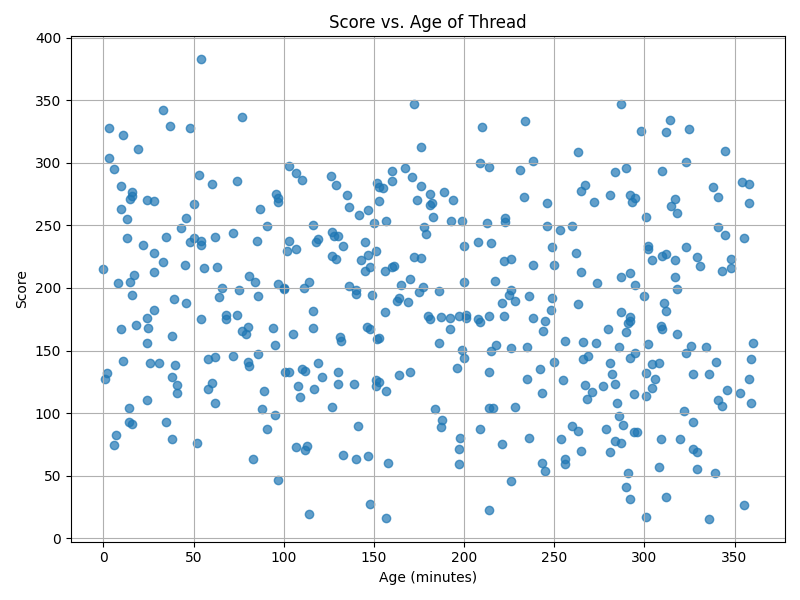
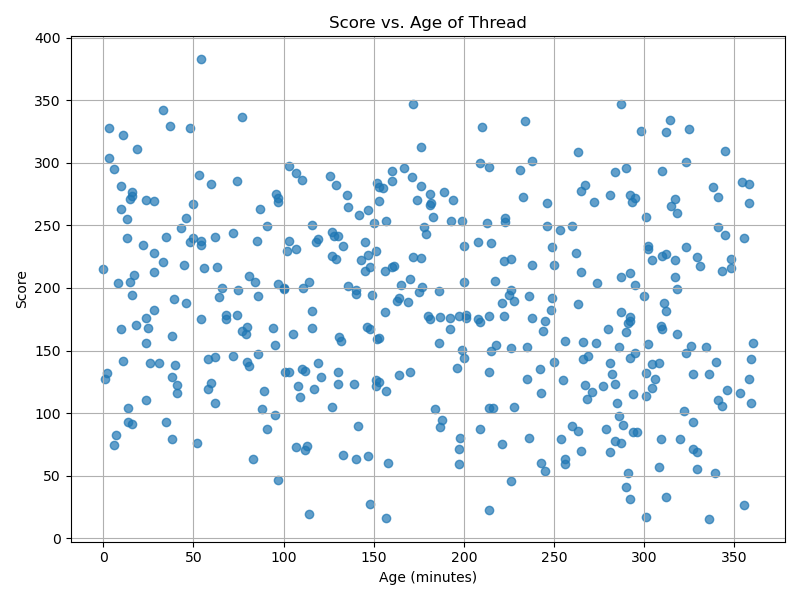
modularize, create data pipeline

diff --git a/main.py b/main.py
@@ -1,0 +1,86 @@
+import pandas as pd
+import numpy as np
+import random
+
+# Import functions from your other modules
+from generate_threads import generate_synthetic_thread_data
+from score_threads import score_threads_data
+from sort_threads import get_top_threads
+from multi_user import assign_users_to_threads
+from plot_threads import generate_and_save_plots
+from plot_threads import generate_and_save_plots
+from multi_user_analysis import calculate_average_score_per_user, plot_user_performance_distribution # <--- UPDATED IMPORT
+
+
+def run_full_pipeline():
+    print("--- Starting Thread Scorer Pipeline ---")
+
+    # 1. Generate the synthetic data
+    print("\n1. Generating synthetic thread data...")
+    # generate_synthetic_thread_data already contains its own seeding.
+    df_threads = generate_synthetic_thread_data(num_threads_min=100, num_threads_max=500)
+    print(f"Generated DataFrame with {len(df_threads)} threads.")
+
+    csv_path_raw_threads = "threads.csv"
+    df_threads.to_csv(csv_path_raw_threads, index=False)
+
+    # 2. Calculate engagement score
+    print("\n2. Calculating engagement scores...")
+    df_scored = score_threads_data(df_threads)
+    print("Engagement scores calculated.")
+
+    # (Optional) Save the full scored DataFrame to CSV if needed by external processes
+    csv_path_scored = "threads_scored.csv"
+    df_scored.to_csv(csv_path_scored, index=False)
+    print(f"Full scored data saved to {csv_path_scored}")
+
+    # 3. Assign users to threads
+    print("\n3. Assigning users to threads...")
+    # This step uses the df_scored data, as it's the full dataset
+    df_with_users = assign_users_to_threads(df_scored, num_unique_users=100)
+    print(f"User IDs assigned to {len(df_with_users)} threads. Head of DataFrame with users:")
+    print(df_with_users.head())
+
+    # (Optional) Save this DataFrame with users to a new CSV as well
+    csv_path_with_users = "threads_with_users.csv"
+    df_with_users.to_csv(csv_path_with_users, index=False)
+    print(f"Data with user assignments saved to {csv_path_with_users}")
+
+    # 4. Get top 10 threads
+    print("\n4. Getting top 10 threads...")
+    df_top_10 = get_top_threads(df_scored, top_n=10)
+    print("Top 10 threads extracted.")
+
+    # (Optional) Save the top 10 threads to CSV if needed by external processes
+    csv_path_top_threads = "top_threads.csv"
+    df_top_10.to_csv(csv_path_top_threads, index=False)
+    print(f"Top 10 threads saved to {csv_path_top_threads}")
+
+    # 5. Calculate Average Post Score for Each User
+    print("\n5. Calculating average post score per user...")
+    df_user_avg_scores = calculate_average_score_per_user(input_csv_path=csv_path_with_users)
+    if not df_user_avg_scores.empty:
+        print("Average post score per user calculated. Head:")
+        print(df_user_avg_scores.head())
+        print(f"Total unique users with scores: {len(df_user_avg_scores)}")
+
+        # Save the user average scores to a CSV
+        output_csv_path_avg_scores = "user_average_scores.csv"
+        df_user_avg_scores.to_csv(output_csv_path_avg_scores, index=False)
+        print(f"User average scores saved to {output_csv_path_avg_scores}")
+
+        # Plot user performance distribution
+        print("\nPlotting user performance distribution...")
+        plot_user_performance_distribution(df_user_avg_scores)
+    else:
+        print("Could not calculate user average scores or plot distribution.")
+
+    # 6. Generate and save plots
+    # This function expects the full scored DataFrame and the top 10 DataFrame
+    generate_and_save_plots(df_scored, df_top_10)
+    
+
+    print("\n--- Thread Scorer Pipeline Completed ---")
+
+if __name__ == "__main__":
+    run_full_pipeline()

diff --git a/plot_threads.py b/plot_threads.py
@@ -1,29 +1,33 @@
 import pandas as pd
 import matplotlib.pyplot as plt
 
-# Load full scored dataset
-df = pd.read_csv("threads_scored.csv")
+def generate_and_save_plots(df_full_scored: pd.DataFrame, df_top_10: pd.DataFrame):
 
-# Load top 10 threads dataset
-df_top10 = pd.read_csv("top_threads.csv")
+    # --- Plot 1: Score vs. Age of Thread ---
+    plt.figure(figsize=(8, 6))
+    plt.scatter(df_full_scored['age_minutes'], df_full_scored['score'], alpha=0.7)
+    plt.xlabel('Age (minutes)')
+    plt.ylabel('Score')
+    plt.title('Score vs. Age of Thread')
+    plt.grid(True)
+    plt.tight_layout()
+    plt.savefig("images/score_vs_age.png")
+    plt.close() # Close the figure to free up memory
 
-# --- Plot 1: Score vs. Age of Thread ---
-plt.figure(figsize=(8, 6))
-plt.scatter(df['age_minutes'], df['score'], alpha=0.7)
-plt.xlabel('Age (minutes)')
-plt.ylabel('Score')
-plt.title('Score vs. Age of Thread')
-plt.grid(True)
-plt.tight_layout()
-plt.savefig("images/score_vs_age.png")
+    # --- Plot 2: Distribution of engagement types across top 10 threads ---
+    engagement_top10 = df_top_10[['thread_id', 'likes', 'replies', 'reposts']].set_index('thread_id')
 
-# --- Plot 2: Distribution of engagement types across top 10 threads ---
-engagement_top10 = df_top10[['thread_id', 'likes', 'replies', 'reposts']].set_index('thread_id')
+    engagement_top10.plot(kind='bar', figsize=(10, 6))
+    plt.xlabel('Thread ID')
+    plt.ylabel('Count')
+    plt.title('Distribution of Engagement Types Across Top 10 Threads')
+    plt.xticks(rotation=45)
+    plt.tight_layout()
+    plt.savefig("images/top10_engagements.png")
+    plt.close() # Close the figure
 
-engagement_top10.plot(kind='bar', figsize=(10, 6))
-plt.xlabel('Thread ID')
-plt.ylabel('Count')
-plt.title('Distribution of Engagement Types Across Top 10 Threads')
-plt.xticks(rotation=45)
-plt.tight_layout()
-plt.savefig("images/top10_engagements.png")
+if __name__ == "__main__":    
+    df = pd.read_csv("threads_scored.csv") # Load full scored dataset
+    df_top10 = pd.read_csv("top_threads.csv") # Load top 10 threads dataset
+    generate_and_save_plots(df, df_top10)
+

diff --git a/multi_user_analysis.py b/multi_user_analysis.py
@@ -1,0 +1,46 @@
+import uuid
+import pandas as pd
+import numpy as np
+import matplotlib.pyplot as plt
+
+def calculate_average_score_per_user(input_csv_path: str = "threads_with_users.csv") -> pd.DataFrame:
+    #calculate average score for each user
+    df = pd.read_csv(input_csv_path)
+    average_scores_df = df.groupby('user_id')['score'].mean().reset_index()
+
+    return average_scores_df
+
+
+
+def plot_user_performance_distribution(df_user_scores: pd.DataFrame):
+
+
+    #generate plot for each user
+    plt.figure(figsize=(10, 6))
+    plt.hist(df_user_scores['score'], bins=20, edgecolor='black', alpha=0.7)
+    plt.xlabel('Average Post Score')
+    plt.ylabel('Number of Users')
+    plt.title('Distribution of Average Post Scores Per User')
+    plt.grid(axis='y', alpha=0.75)
+    plt.tight_layout()
+
+    plot_path = "images/user_score_distribution.png"
+    plt.savefig(plot_path)
+    plt.close() # Close the figure to free up memory
+
+
+if __name__ == "__main__":
+    print("Running analyze_users.py directly.")
+    avg_scores = calculate_average_score_per_user()
+    if not avg_scores.empty:
+        print("\nAverage scores per user (direct run):")
+        print(avg_scores.head())
+        print(f"Total unique users found: {len(avg_scores)}")
+
+        output_csv_path = "user_average_scores.csv"
+        avg_scores.to_csv(output_csv_path, index=False)
+        print(f"Average scores saved to {output_csv_path}")
+
+        # Plot the distribution when run directly
+        plot_user_performance_distribution(avg_scores)
+        print("User performance distribution plot generated (direct run).")

diff --git a/generate_threads.py b/generate_threads.py
@@ -4,24 +4,32 @@ import random
 
 # Set random seed for reproducibility
 SEED = 42
-np.random.seed(SEED)
-random.seed(SEED)
 
+
+def generate_synthetic_thread_data(num_threads_min=100, num_threads_max=500):
 # Choose a random number of threads between 100 and 500
-num_threads = random.randint(100, 500)
+    np.random.seed(SEED)
+    random.seed(SEED)
 
-# Generate synthetic data
-data = {
-    'thread_id': list(range(1, num_threads + 1)),
-    'likes': np.random.randint(0, 101, num_threads),
-    'replies': np.random.randint(0, 51, num_threads),
-    'reposts': np.random.randint(0, 31, num_threads),
-    'age_minutes': np.random.randint(0, 361, num_threads)
-}
+    num_threads = random.randint(num_threads_min, num_threads_max)
+    
 
-# Create a DataFrame
-df_threads = pd.DataFrame(data)
+
+    # Generate synthetic data
+    data = {
+        'thread_id': list(range(1, num_threads + 1)),
+        'likes': np.random.randint(0, 101, num_threads),
+        'replies': np.random.randint(0, 51, num_threads),
+        'reposts': np.random.randint(0, 31, num_threads),
+        'age_minutes': np.random.randint(0, 361, num_threads)
+    }
+
+    # Create a DataFrame
+    df_threads = pd.DataFrame(data)
+    return df_threads
 
 # Save to CSV
-csv_path = "threads.csv"
-df_threads.to_csv(csv_path, index=False)
+if __name__ == "__main__":
+    df_generated = generate_synthetic_thread_data()
+    csv_path = "threads.csv"
+    df_generated.to_csv(csv_path, index=False)

diff --git a/score_threads.py b/score_threads.py
@@ -1,31 +1,21 @@
 import pandas as pd
 import numpy as np
 
+def score_threads_data(df: pd.DataFrame) -> pd.DataFrame:
+
 # Load the numeric thread dataset from the saved CSV
-df_loaded = pd.read_csv("threads.csv")
+    df_loaded = pd.read_csv("threads.csv")
 
-# Repeat the vectorized score calculation on the loaded DataFrame
+    # Repeat the vectorized score calculation on the loaded DataFrame
+    df_loaded['score'] = (df_loaded['likes']*2) + (df_loaded['replies']*3) + (df_loaded['reposts']*2.5) * np.exp(-df_loaded['age_minutes']/120)
+    
+    return df_loaded
 
-# Extract columns as arrays
-likes = df_loaded['likes'].to_numpy()
-replies = df_loaded['replies'].to_numpy()
-reposts = df_loaded['reposts'].to_numpy()
-age_minutes = df_loaded['age_minutes'].to_numpy()
-
-# Compute decay
-age_decay = np.exp(-age_minutes / 120)
-
-# Compute score parts
-likes_part = likes * 2
-replies_part = replies * 3
-reposts_part = reposts * 2.5 * age_decay
-
-# Compute final score
-score = likes_part + replies_part + reposts_part
-
-# Append score to DataFrame
-df_loaded['score'] = score
-
+if __name__ == "__main__":
 # Save updated DataFrame
-csv_path_scored_from_loaded = "threads_scored.csv"
-df_loaded.to_csv(csv_path_scored_from_loaded, index=False)
+    df_loaded = pd.read_csv("threads.csv")
+    df_scored = score_threads_data(df_loaded)
+    
+    csv_path_scored_from_loaded = "threads_scored.csv"
+
+    df_scored.to_csv(csv_path_scored_from_loaded, index=False)

diff --git a/sort_threads.py b/sort_threads.py
@@ -1,10 +1,15 @@
 import pandas as pd
 
-# Load scored threads data
-df = pd.read_csv("threads_scored.csv")
+def get_top_threads(df: pd.DataFrame, top_n: int = 10) -> pd.DataFrame:
 
-# Sort by score descending
-df_top = df.sort_values(by='score', ascending=False).head(10)
+    # Sort by score descending
+    df_top = df.sort_values(by='score', ascending=False).head(top_n)
+    return df_top
 
+if __name__ == "__main__":
 # Save top threads
-df_top.to_csv("top_threads.csv", index=False)
+    
+    df = pd.read_csv("threads_scored.csv") # Load scored threads data
+    df_top = get_top_threads(df)
+    csv_path_top_threads = "top_threads.csv" # Save top threads
+    df_top.to_csv(csv_path_top_threads, index=False)

diff --git a/multi_user.py b/multi_user.py
@@ -1,0 +1,19 @@
+import uuid
+import pandas as pd
+import random
+
+def assign_users_to_threads(df: pd.DataFrame, num_unique_users: int = 100) -> pd.DataFrame:
+
+    threads_df_multi_user = df.copy()
+
+    user_ids = []
+    for _ in range(100):
+        user_ids.append(str(uuid.uuid4())) #generate 100 users using uuids, and assign them to each post using random sampling
+
+    threads_df_multi_user['user_id'] = random.choices(user_ids, k=len(threads_df_multi_user))
+    return threads_df_multi_user
+
+
+if __name__ == "__main__":
+    df = pd.read_csv('threads_scored.csv')
+    threads_df_with_users = assign_users_to_threads(df)
